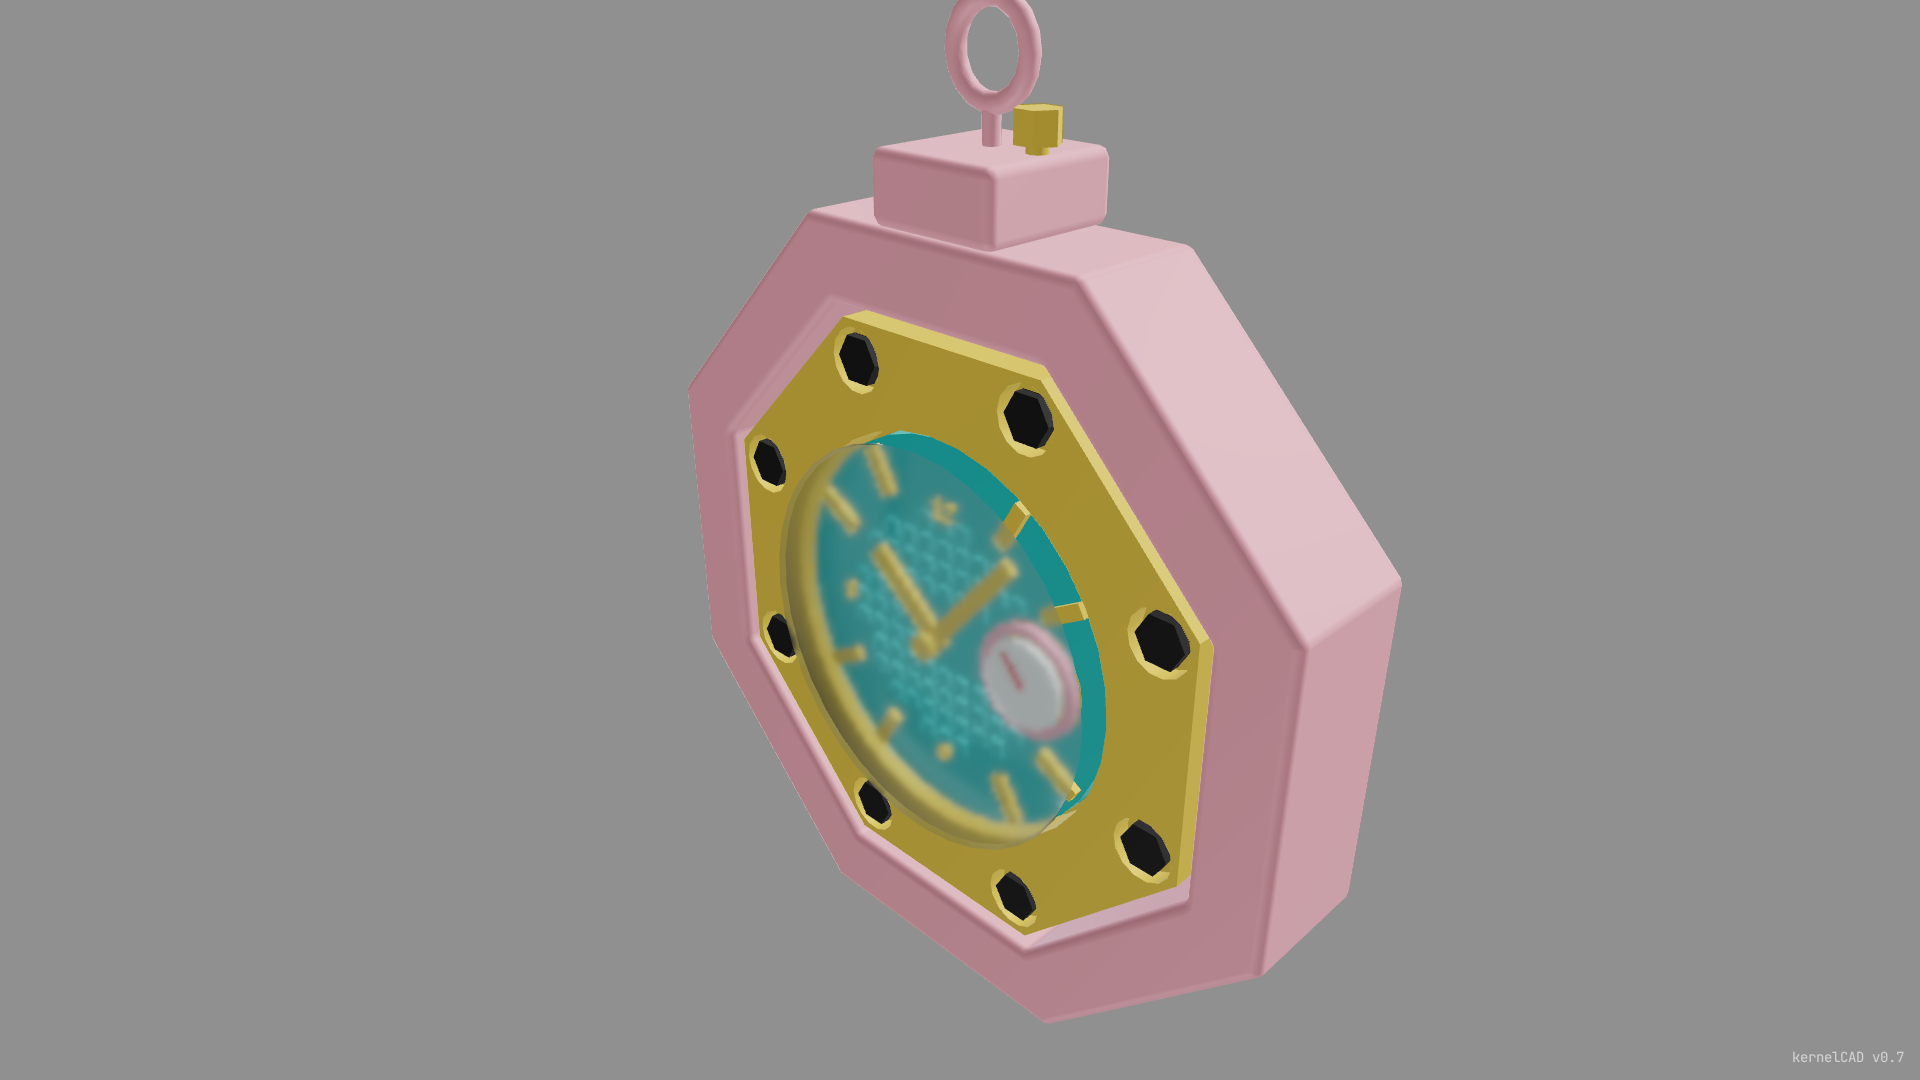
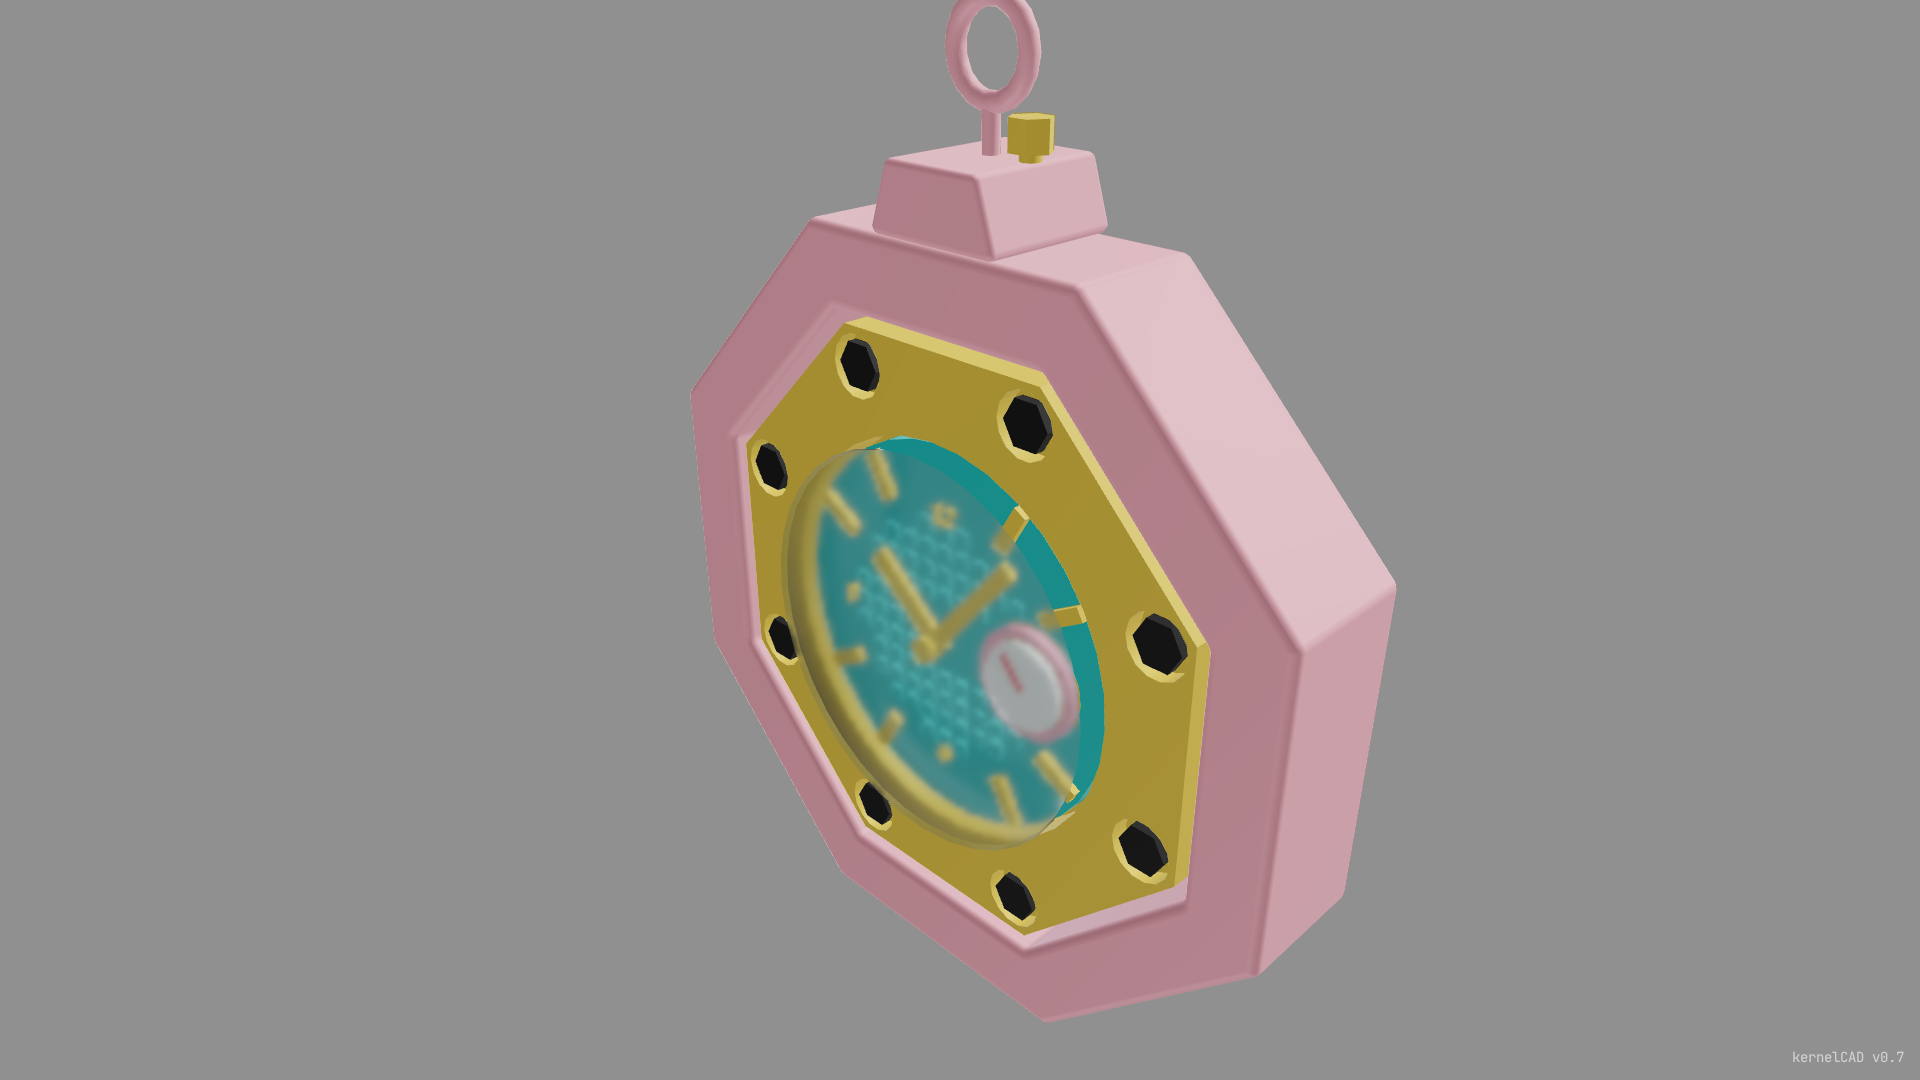
fix(demo): pocket-watch iter4 — tapered pendant neck
Replace the rectangular pendant block with a trapezoidal prism (base 9 mm,
top 6.4 mm, height 4 mm) extruded along Y by FRAME_DEPTH and softened by a
0.4 mm fillet. The taper inward toward the crown makes the neck silhouette
match a real pocket-watch pendant more closely than a flat-sided box.

Tighten the crown offset to 2.7 mm so the knurled knob stays within the
pendant's narrower top half-width, and raise the bail loop centre by 0.5 mm
so the torus tube clears the crown knob (interference check 96 parts, 0
overlaps).

Refs PR #254.

diff --git a/examples/portfolio/pocket-watch/build.kcad.ts b/examples/portfolio/pocket-watch/build.kcad.ts
@@ -455,17 +455,37 @@ watch.fixed('pinion centered on dial', dial, pinionPart, { origin: [0, DIAL_Y_FR
 // case top flat (which has an X-span of 2·CASE_FLAT·tan(π/8) ≈ 14.5 mm) so
 // it visually reads as a separate stub rather than a continuation of the
 // case. Depth matches the frame (Y = FRAME_DEPTH) so it sits flush front-back.
-const PENDANT_WIDTH = 8.5;
+// Tapered pendant — base wider than the top, so the silhouette steps inward
+// toward the bail (matches a real pocket-watch neck better than a flat-sided
+// block). Built as a polygon extrusion: trapezoidal cross-section in the
+// X-Z plane, extruded along Y by PENDANT_DEPTH.
+const PENDANT_BASE_HALF_X = 4.5;                    // base half-width (X)
+const PENDANT_TOP_HALF_X = 3.2;                     // top half-width (X) — narrower than base
 const PENDANT_HEIGHT = 4.0;
 const PENDANT_DEPTH = FRAME_DEPTH;
 const PENDANT_Z_BASE = FRAME_FLAT;                  // 23 — top of frame
 const PENDANT_Z_TOP = PENDANT_Z_BASE + PENDANT_HEIGHT;   // 27
-const pendantBlock = box(PENDANT_WIDTH, PENDANT_DEPTH, PENDANT_HEIGHT, true)
-  .translate(0, 0, PENDANT_Z_BASE + PENDANT_HEIGHT / 2)
-  // Fillet softens all 12 edges (~0.6 mm radius) — without this the pendant
-  // reads as a sharp box stuck onto the case. With the fillet, the silhouette
-  // matches the soft chamfered neck on the reference pocket watch.
-  .fillet(0.6)
+// Polygon vertices (XZ plane, CCW): bottom-left, bottom-right, top-right, top-left.
+// extrudePolygon extrudes along +Z by PENDANT_DEPTH; rotate(X, -90°) then maps
+// the polygon plane onto XY (originally XZ) and the extrusion direction onto
+// world -Y. Then translate to place the pendant base at world Z = PENDANT_Z_BASE.
+const pendantPts = [
+  [-PENDANT_BASE_HALF_X, 0],
+  [+PENDANT_BASE_HALF_X, 0],
+  [+PENDANT_TOP_HALF_X, PENDANT_HEIGHT],
+  [-PENDANT_TOP_HALF_X, PENDANT_HEIGHT],
+];
+const pendantBlock = extrudePolygon(pendantPts, PENDANT_DEPTH)
+  // rotate(X, +90°) maps original (x, y, z) → (x, -z, y), so polygon-Y becomes
+  // world-Z (height, preserves sign) and the +Z extrusion direction becomes
+  // world -Y. Then translate by +PENDANT_DEPTH/2 in Y to centre the prism on
+  // world Y = 0, and by PENDANT_Z_BASE in Z to set the base flush with the
+  // frame top.
+  .rotate([1, 0, 0], 90)
+  .translate(0, PENDANT_DEPTH / 2, PENDANT_Z_BASE)
+  // Fillet softens all edges — the trapezoidal taper + fillet matches the
+  // reference's soft, rounded neck silhouette.
+  .fillet(0.4)
   .color('#f8b3c0');
 const pendant = watch.part('pink pendant block above frame', pendantBlock);
 watch.fixed('pendant on top of frame', frame, pendant, { origin: [0, 0, PENDANT_Z_BASE] });
@@ -476,8 +496,8 @@ watch.fixed('pendant on top of frame', frame, pendant, { origin: [0, 0, PENDANT_
 // coaxial stack reads ambiguously; a small offset matches real pocket
 // watches' crowns sitting at the 1-2 o'clock side of the pendant neck).
 // =============================================================================
-const CROWN_X_OFFSET = 3.1;                         // offset to one side of the pendant top — clears the bail torus tube
-const CROWN_KNOB_R = 1.25;                          // knob radius — keep within the pendant's ±4.25 mm half-width footprint
+const CROWN_X_OFFSET = 2.7;                         // offset to one side of the pendant top — clears the bail torus tube
+const CROWN_KNOB_R = 1.2;                           // knob radius — keep within the pendant's ±3.2 mm tapered top
 const CROWN_KNOB_H = 1.7;                           // total knob height above pendant — visible from the iso pose
 const CROWN_STEM_R = 0.6;
 const CROWN_STEM_H = 0.45;                          // short stub between pendant top and the knob
@@ -510,8 +530,8 @@ watch.fixed('crown atop the pendant', pendant, crownPart, { origin: [CROWN_X_OFF
 // circular through-hole — a real chain could be threaded through it.
 const LOOP_MAJOR_R = 2.5;    // through-hole radius
 const LOOP_TUBE_R  = 0.55;   // tube cross-section radius
-const loopCenterZ  = PENDANT_Z_TOP + 4.5;             // 31.5 — center of torus; raised so tube bottom clears the crown knob
-const LOOP_TOP_Z_ACTUAL = loopCenterZ + LOOP_MAJOR_R + LOOP_TUBE_R;  // ~34.55 apex
+const loopCenterZ  = PENDANT_Z_TOP + 5.0;             // 32 — center of torus; raised so tube bottom clears the crown knob hex
+const LOOP_TOP_Z_ACTUAL = loopCenterZ + LOOP_MAJOR_R + LOOP_TUBE_R;  // ~35.05 apex
 // Bail post: thin pink cylinder rising from the pendant top up into the torus
 // tube. Centered at world x=0. Post base at PENDANT_Z_TOP (flush with pendant
 // top face) — no socket required since the volumes are tangent, not overlapping.
